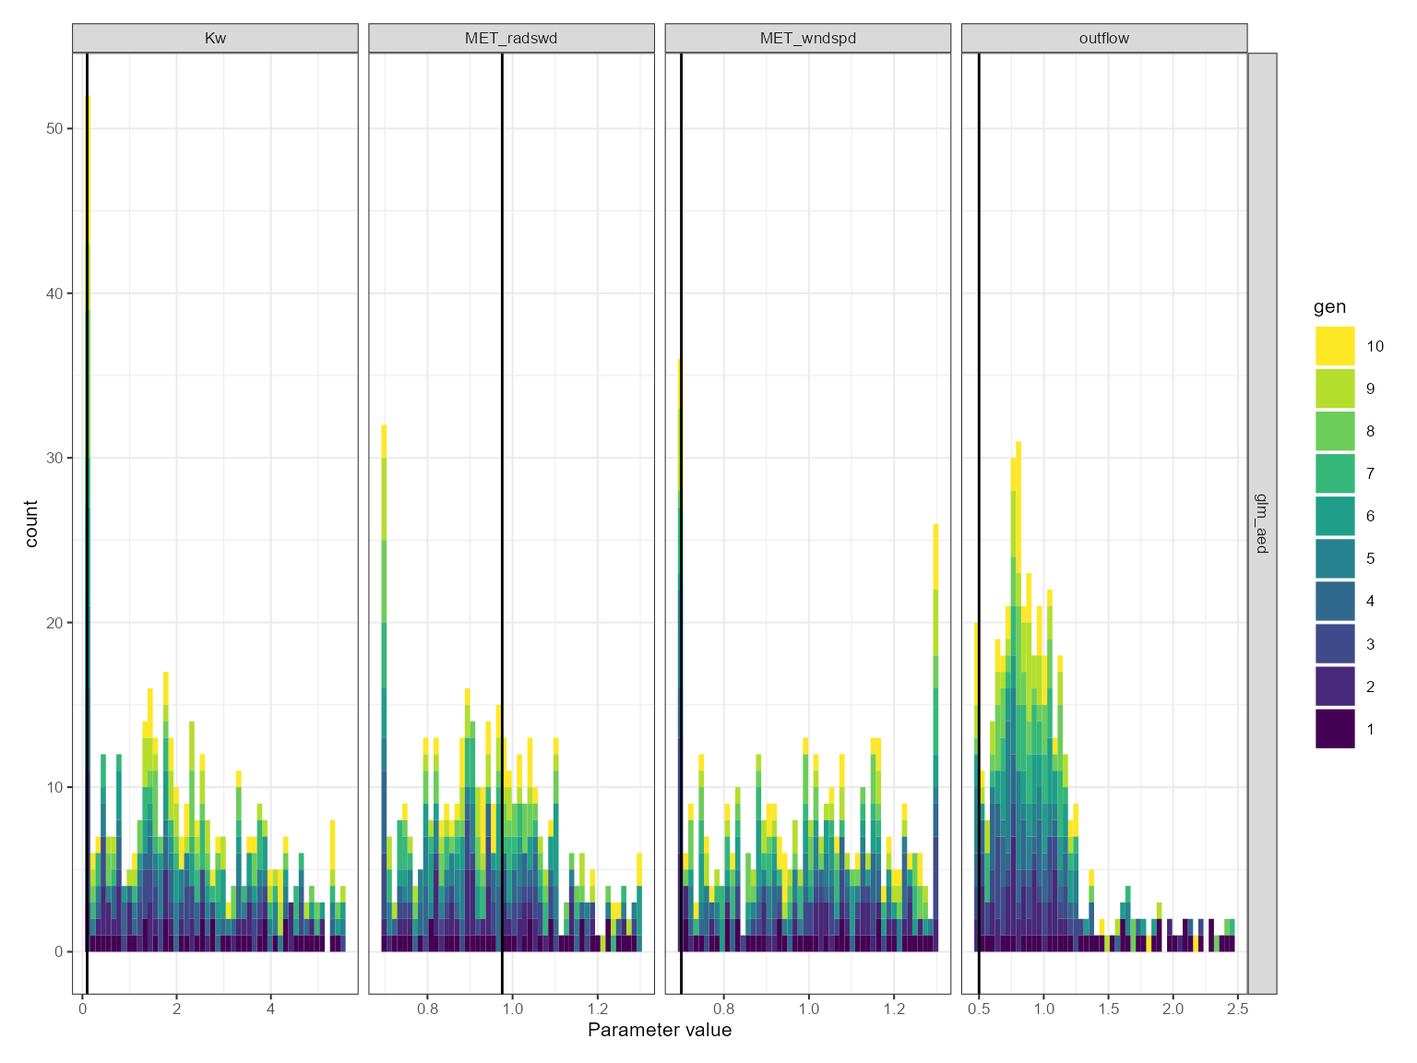
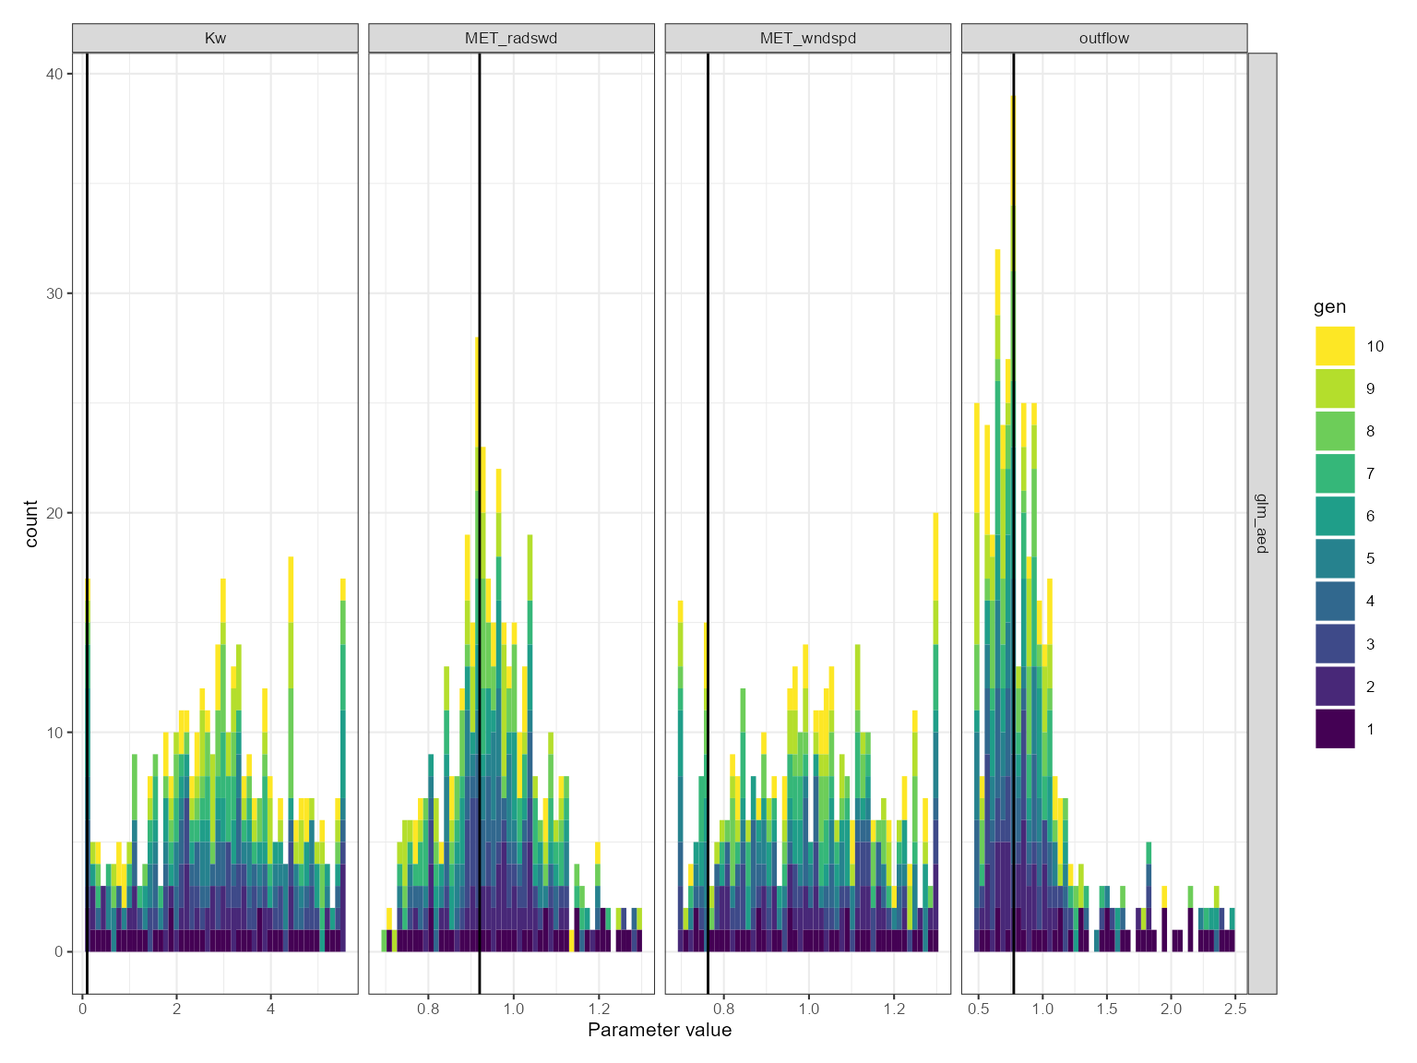
Deploying to gh-pages from @ limnotrack/aemetools@f2f2db6f0a85996d10b5b84f15a42213fd7329f2 🚀

Changed region(s): [[0.0625, 0.0625, 0.875, 0.9375]]

diff --git a/articles/calibrate-aeme.html b/articles/calibrate-aeme.html
@@ -42,7 +42,6 @@
   <a href="#" class="nav-link dropdown-toggle" data-bs-toggle="dropdown" role="button" aria-expanded="false" aria-haspopup="true" id="dropdown-articles">Articles</a>
   <div class="dropdown-menu" aria-labelledby="dropdown-articles">
     <a class="dropdown-item" href="../articles/calibrate-aeme.html">Calibrate AEME</a>
-    <a class="dropdown-item" href="../articles/calibration-strategies.html">Calibration strategies</a>
     <a class="dropdown-item" href="../articles/download-era5.html">Download ERA5 data</a>
   </div>
 </li>
@@ -122,9 +121,9 @@ make sure the current model setup is working.</p>
 <code class="sourceCode R"><span><span class="va">aeme_data</span> <span class="op">&lt;-</span> <span class="fu"><a href="https://rdrr.io/pkg/AEME/man/run_aeme.html" class="external-link">run_aeme</a></span><span class="op">(</span>aeme_data <span class="op">=</span> <span class="va">aeme_data</span>, model <span class="op">=</span> <span class="va">model</span>,</span>
 <span>                      verbose <span class="op">=</span> <span class="cn">FALSE</span>, mod_ctrls <span class="op">=</span> <span class="va">mod_ctrls</span>,</span>
 <span>                      path <span class="op">=</span> <span class="va">path</span><span class="op">)</span></span>
-<span><span class="co">#&gt; Running models... (Have you tried parallelizing?) [2023-11-05 22:06:33.251631]</span></span>
-<span><span class="co">#&gt; GLM-AED run successful! [2023-11-05 22:06:33.99918]</span></span>
-<span><span class="co">#&gt; Model run complete![2023-11-05 22:06:33.99998]</span></span>
+<span><span class="co">#&gt; Running models... (Have you tried parallelizing?) [2023-11-05 22:25:07.571444]</span></span>
+<span><span class="co">#&gt; GLM-AED run successful! [2023-11-05 22:25:08.307704]</span></span>
+<span><span class="co">#&gt; Model run complete![2023-11-05 22:25:08.308532]</span></span>
 <span><span class="co">#&gt; Retrieving and formatting temp for model glm_aed</span></span>
 <span><span class="co">#&gt; Retrieving and formatting salt for model glm_aed</span></span>
 <span><span class="fu"><a href="https://rdrr.io/r/graphics/plot.default.html" class="external-link">plot</a></span><span class="op">(</span><span class="va">aeme_data</span><span class="op">)</span></span></code></pre></div>
@@ -229,9 +228,9 @@ but the model output is generate within the lake folder.</p>
 <div class="sourceCode" id="cb7"><pre class="downlit sourceCode r">
 <code class="sourceCode R"><span><span class="fu"><a href="../reference/run_aeme_param.html">run_aeme_param</a></span><span class="op">(</span>aeme_data <span class="op">=</span> <span class="va">aeme_data</span>, param <span class="op">=</span> <span class="va">aeme_parameters</span>,</span>
 <span>                 model <span class="op">=</span> <span class="va">model</span>, path <span class="op">=</span> <span class="va">path</span>, mod_ctrls <span class="op">=</span> <span class="va">mod_ctrls</span><span class="op">)</span></span>
-<span><span class="co">#&gt; Running models... (Have you tried parallelizing?) [2023-11-05 22:06:46.504581]</span></span>
-<span><span class="co">#&gt; GLM-AED run successful! [2023-11-05 22:06:47.233841]</span></span>
-<span><span class="co">#&gt; Model run complete![2023-11-05 22:06:47.234644]</span></span></code></pre></div>
+<span><span class="co">#&gt; Running models... (Have you tried parallelizing?) [2023-11-05 22:25:12.072773]</span></span>
+<span><span class="co">#&gt; GLM-AED run successful! [2023-11-05 22:25:12.795248]</span></span>
+<span><span class="co">#&gt; Model run complete![2023-11-05 22:25:12.796106]</span></span></code></pre></div>
 </div>
 <div class="section level2">
 <h2 id="calibration-setup">Calibration setup<a class="anchor" aria-label="anchor" href="#calibration-setup"></a>
@@ -365,79 +364,79 @@ values.</p>
 <span>                   param <span class="op">=</span> <span class="va">aeme_parameters</span>, model <span class="op">=</span> <span class="va">model</span>,</span>
 <span>                   mod_ctrls <span class="op">=</span> <span class="va">mod_ctrls</span>, FUN <span class="op">=</span> <span class="va">fit</span>, ctrl <span class="op">=</span> <span class="va">ctrl</span>,</span>
 <span>                   vars_sim <span class="op">=</span> <span class="va">vars_sim</span>, weights <span class="op">=</span> <span class="va">weights</span><span class="op">)</span></span>
-<span><span class="co">#&gt; Extracting indices for modelled variables [2023-11-05 22:06:47.561731]</span></span>
-<span><span class="co">#&gt; Complete! [2023-11-05 22:06:48.421331]</span></span>
+<span><span class="co">#&gt; Extracting indices for modelled variables [2023-11-05 22:25:13.126218]</span></span>
+<span><span class="co">#&gt; Complete! [2023-11-05 22:25:13.983591]</span></span>
 <span><span class="co">#&gt; Calibrating in parallel using 1 cores...</span></span>
-<span><span class="co">#&gt; Starting generation 1/10, 40 members. [2023-11-05 22:06:48.678277]</span></span>
+<span><span class="co">#&gt; Starting generation 1/10, 40 members. [2023-11-05 22:25:14.234939]</span></span>
 <span><span class="co">#&gt;        light.Kw MET_wndspd MET_radswd outflow</span></span>
-<span><span class="co">#&gt; mean      2.804     0.9994     0.9990  1.4980</span></span>
-<span><span class="co">#&gt; median    2.764     0.9973     1.0000  1.4860</span></span>
-<span><span class="co">#&gt; sd        1.571     0.1752     0.1762  0.5837</span></span>
-<span><span class="co">#&gt; Best fit: 2.645 (sd: 320.313)</span></span>
-<span><span class="co">#&gt;             Parameters: [0.809, 1.232, 0.734, 0.837]</span></span>
+<span><span class="co">#&gt; mean      2.810     0.9993     1.0000  1.5000</span></span>
+<span><span class="co">#&gt; median    2.827     0.9965     0.9951  1.5020</span></span>
+<span><span class="co">#&gt; sd        1.575     0.1762     0.1743  0.5843</span></span>
+<span><span class="co">#&gt; Best fit: 2.827 (sd: 327.055)</span></span>
+<span><span class="co">#&gt;             Parameters: [0.732, 1.003, 0.804, 0.646]</span></span>
 <span><span class="co">#&gt; Survival rate: 1</span></span>
-<span><span class="co">#&gt; Starting generation 2/10, 40 members. [2023-11-05 22:07:22.95158]</span></span>
+<span><span class="co">#&gt; Starting generation 2/10, 40 members. [2023-11-05 22:25:48.50191]</span></span>
 <span><span class="co">#&gt;        light.Kw MET_wndspd MET_radswd outflow</span></span>
-<span><span class="co">#&gt; mean      2.007     0.9966     0.9305  0.8863</span></span>
-<span><span class="co">#&gt; median    1.725     1.0310     0.9039  0.8369</span></span>
-<span><span class="co">#&gt; sd        1.476     0.1976     0.1285  0.3201</span></span>
-<span><span class="co">#&gt; Best fit: 2.3294 (sd: 149.34)</span></span>
+<span><span class="co">#&gt; mean      2.686     1.0180    0.96620  0.8387</span></span>
+<span><span class="co">#&gt; median    2.765     1.0030    0.97120  0.8120</span></span>
+<span><span class="co">#&gt; sd        1.602     0.1638    0.09332  0.2673</span></span>
+<span><span class="co">#&gt; Best fit: 2.3565 (sd: 149.27)</span></span>
 <span><span class="co">#&gt; Survival rate: 1</span></span>
-<span><span class="co">#&gt; Starting generation 3/10, 40 members. [2023-11-05 22:08:00.114019]</span></span>
+<span><span class="co">#&gt; Starting generation 3/10, 40 members. [2023-11-05 22:26:25.870463]</span></span>
 <span><span class="co">#&gt;        light.Kw MET_wndspd MET_radswd outflow</span></span>
-<span><span class="co">#&gt; mean      1.765     0.9921     0.9428  0.8815</span></span>
-<span><span class="co">#&gt; median    1.513     1.0100     0.9456  0.8379</span></span>
-<span><span class="co">#&gt; sd        1.420     0.1921     0.1461  0.3201</span></span>
-<span><span class="co">#&gt; Best fit: 2.3294 (sd: 106.97)</span></span>
+<span><span class="co">#&gt; mean      3.148     0.9960     0.9579  0.9035</span></span>
+<span><span class="co">#&gt; median    3.100     1.0130     0.9426  0.8483</span></span>
+<span><span class="co">#&gt; sd        1.269     0.1648     0.1162  0.3788</span></span>
+<span><span class="co">#&gt; Best fit: 2.3565 (sd: 185.23)</span></span>
 <span><span class="co">#&gt; Survival rate: 1</span></span>
-<span><span class="co">#&gt; Starting generation 4/10, 40 members. [2023-11-05 22:08:37.154059]</span></span>
+<span><span class="co">#&gt; Starting generation 4/10, 40 members. [2023-11-05 22:27:03.303038]</span></span>
 <span><span class="co">#&gt;        light.Kw MET_wndspd MET_radswd outflow</span></span>
-<span><span class="co">#&gt; mean      2.039     0.9959     0.9261  0.9215</span></span>
-<span><span class="co">#&gt; median    1.741     1.0270     0.9541  0.8424</span></span>
-<span><span class="co">#&gt; sd        1.458     0.1846     0.1494  0.3519</span></span>
-<span><span class="co">#&gt; Best fit: 2.3288 (sd: 196.52)</span></span>
+<span><span class="co">#&gt; mean      2.791     0.9622     0.9531  0.8575</span></span>
+<span><span class="co">#&gt; median    2.852     0.9886     0.9448  0.7678</span></span>
+<span><span class="co">#&gt; sd        1.451     0.1549     0.1156  0.3678</span></span>
+<span><span class="co">#&gt; Best fit: 2.3318 (sd: 172.72)</span></span>
 <span><span class="co">#&gt; Survival rate: 1</span></span>
-<span><span class="co">#&gt; Starting generation 5/10, 40 members. [2023-11-05 22:09:14.018741]</span></span>
+<span><span class="co">#&gt; Starting generation 5/10, 40 members. [2023-11-05 22:27:40.910424]</span></span>
 <span><span class="co">#&gt;        light.Kw MET_wndspd MET_radswd outflow</span></span>
-<span><span class="co">#&gt; mean      2.197     0.9480     0.9195  0.8690</span></span>
-<span><span class="co">#&gt; median    2.017     0.9533     0.8682  0.7988</span></span>
-<span><span class="co">#&gt; sd        1.585     0.1796     0.1716  0.2600</span></span>
-<span><span class="co">#&gt; Best fit: 2.3288 (sd: 129.1)</span></span>
+<span><span class="co">#&gt; mean      2.644     1.0180    0.93690  0.8542</span></span>
+<span><span class="co">#&gt; median    2.592     1.0500    0.93970  0.7841</span></span>
+<span><span class="co">#&gt; sd        1.550     0.1954    0.09897  0.3373</span></span>
+<span><span class="co">#&gt; Best fit: 2.3318 (sd: 177.9)</span></span>
 <span><span class="co">#&gt; Survival rate: 1</span></span>
-<span><span class="co">#&gt; Starting generation 6/10, 40 members. [2023-11-05 22:09:51.170424]</span></span>
+<span><span class="co">#&gt; Starting generation 6/10, 40 members. [2023-11-05 22:28:18.537953]</span></span>
 <span><span class="co">#&gt;        light.Kw MET_wndspd MET_radswd outflow</span></span>
-<span><span class="co">#&gt; mean      2.274     1.0060     0.9501  0.9840</span></span>
-<span><span class="co">#&gt; median    1.990     1.0390     0.9676  0.9862</span></span>
-<span><span class="co">#&gt; sd        1.606     0.1763     0.1606  0.3063</span></span>
-<span><span class="co">#&gt; Best fit: 2.3288 (sd: 172.76)</span></span>
+<span><span class="co">#&gt; mean      3.200     0.9595    0.95740  0.9409</span></span>
+<span><span class="co">#&gt; median    3.205     0.9568    0.95540  0.7770</span></span>
+<span><span class="co">#&gt; sd        1.737     0.1675    0.08789  0.4639</span></span>
+<span><span class="co">#&gt; Best fit: 2.3318 (sd: 199.02)</span></span>
 <span><span class="co">#&gt; Survival rate: 1</span></span>
-<span><span class="co">#&gt; Starting generation 7/10, 40 members. [2023-11-05 22:10:27.684832]</span></span>
+<span><span class="co">#&gt; Starting generation 7/10, 40 members. [2023-11-05 22:28:55.78387]</span></span>
 <span><span class="co">#&gt;        light.Kw MET_wndspd MET_radswd outflow</span></span>
-<span><span class="co">#&gt; mean      2.293     0.9574     0.9072  0.9540</span></span>
-<span><span class="co">#&gt; median    2.426     0.9135     0.9029  0.8939</span></span>
-<span><span class="co">#&gt; sd        1.514     0.1900     0.1542  0.3225</span></span>
-<span><span class="co">#&gt; Best fit: 2.3288 (sd: 139.64)</span></span>
+<span><span class="co">#&gt; mean      2.769     0.9818     0.9503  0.9287</span></span>
+<span><span class="co">#&gt; median    2.967     0.9813     0.9311  0.8384</span></span>
+<span><span class="co">#&gt; sd        1.408     0.1706     0.1334  0.3356</span></span>
+<span><span class="co">#&gt; Best fit: 2.3318 (sd: 164.71)</span></span>
 <span><span class="co">#&gt; Survival rate: 1</span></span>
-<span><span class="co">#&gt; Starting generation 8/10, 40 members. [2023-11-05 22:11:04.138596]</span></span>
+<span><span class="co">#&gt; Starting generation 8/10, 40 members. [2023-11-05 22:29:32.934874]</span></span>
 <span><span class="co">#&gt;        light.Kw MET_wndspd MET_radswd outflow</span></span>
-<span><span class="co">#&gt; mean      1.910     1.0010     0.9386  0.9814</span></span>
-<span><span class="co">#&gt; median    1.626     0.9998     0.9676  0.8629</span></span>
-<span><span class="co">#&gt; sd        1.516     0.1869     0.1470  0.4112</span></span>
-<span><span class="co">#&gt; Best fit: 2.3288 (sd: 209.27)</span></span>
+<span><span class="co">#&gt; mean      2.945     1.0030     0.9570  0.8473</span></span>
+<span><span class="co">#&gt; median    2.908     1.0290     0.9373  0.7854</span></span>
+<span><span class="co">#&gt; sd        1.436     0.1576     0.1094  0.3119</span></span>
+<span><span class="co">#&gt; Best fit: 2.3318 (sd: 139.49)</span></span>
 <span><span class="co">#&gt; Survival rate: 1</span></span>
-<span><span class="co">#&gt; Starting generation 9/10, 40 members. [2023-11-05 22:11:40.126006]</span></span>
+<span><span class="co">#&gt; Starting generation 9/10, 40 members. [2023-11-05 22:30:10.392375]</span></span>
 <span><span class="co">#&gt;        light.Kw MET_wndspd MET_radswd outflow</span></span>
-<span><span class="co">#&gt; mean      2.232     0.9910     0.9230  0.8936</span></span>
-<span><span class="co">#&gt; median    2.021     0.9803     0.9195  0.8701</span></span>
-<span><span class="co">#&gt; sd        1.437     0.1946     0.1659  0.2906</span></span>
-<span><span class="co">#&gt; Best fit: 2.3288 (sd: 164.64)</span></span>
+<span><span class="co">#&gt; mean      3.189     1.0240     0.9369  0.8449</span></span>
+<span><span class="co">#&gt; median    3.224     1.0410     0.9285  0.7739</span></span>
+<span><span class="co">#&gt; sd        1.308     0.1773     0.1316  0.3615</span></span>
+<span><span class="co">#&gt; Best fit: 2.3318 (sd: 149.25)</span></span>
 <span><span class="co">#&gt; Survival rate: 1</span></span>
-<span><span class="co">#&gt; Starting generation 10/10, 40 members. [2023-11-05 22:12:16.889882]</span></span>
+<span><span class="co">#&gt; Starting generation 10/10, 40 members. [2023-11-05 22:30:47.633498]</span></span>
 <span><span class="co">#&gt;        light.Kw MET_wndspd MET_radswd outflow</span></span>
-<span><span class="co">#&gt; mean      2.057      1.011     0.9690  0.9168</span></span>
-<span><span class="co">#&gt; median    1.927      1.019     0.9586  0.8140</span></span>
-<span><span class="co">#&gt; sd        1.603      0.203     0.1425  0.3421</span></span>
-<span><span class="co">#&gt; Best fit: 2.3259 (sd: 178.17)</span></span>
+<span><span class="co">#&gt; mean      2.974     1.0340    0.94340  0.8209</span></span>
+<span><span class="co">#&gt; median    2.891     1.0270    0.93380  0.7743</span></span>
+<span><span class="co">#&gt; sd        1.446     0.1786    0.09995  0.2840</span></span>
+<span><span class="co">#&gt; Best fit: 2.3318 (sd: 106.89)</span></span>
 <span><span class="co">#&gt; Survival rate: 1</span></span></code></pre></div>
 </div>
 <div class="section level2">

diff --git a/articles/download-era5.html b/articles/download-era5.html
@@ -42,7 +42,6 @@
   <a href="#" class="nav-link dropdown-toggle" data-bs-toggle="dropdown" role="button" aria-expanded="false" aria-haspopup="true" id="dropdown-articles">Articles</a>
   <div class="dropdown-menu" aria-labelledby="dropdown-articles">
     <a class="dropdown-item" href="../articles/calibrate-aeme.html">Calibrate AEME</a>
-    <a class="dropdown-item" href="../articles/calibration-strategies.html">Calibration strategies</a>
     <a class="dropdown-item" href="../articles/download-era5.html">Download ERA5 data</a>
   </div>
 </li>
@@ -96,8 +95,8 @@ your computer to speed up the download.</p>
 <span><span class="va">met</span> <span class="op">&lt;-</span> <span class="fu"><a href="../reference/get_era5_point.html">get_era5_point</a></span><span class="op">(</span>lat <span class="op">=</span> <span class="va">lat</span>, lon <span class="op">=</span> <span class="va">lon</span>, years <span class="op">=</span> <span class="fl">2000</span><span class="op">:</span><span class="fl">2001</span>,</span>
 <span>                      variables <span class="op">=</span> <span class="va">variables</span>, format <span class="op">=</span> <span class="st">"aeme"</span>, parallel <span class="op">=</span> <span class="cn">TRUE</span><span class="op">)</span></span>
 <span><span class="co">#&gt; Auto-refreshing stale OAuth token.</span></span>
-<span><span class="co">#&gt; Downloading ERA5 variables in parallel... [2023-11-05 22:18:33.665347]</span></span>
-<span><span class="co">#&gt; Finished downloading ERA5 variables! [2023-11-05 22:18:45.048336]</span></span>
+<span><span class="co">#&gt; Downloading ERA5 variables in parallel... [2023-11-05 22:31:36.898275]</span></span>
+<span><span class="co">#&gt; Finished downloading ERA5 variables! [2023-11-05 22:31:50.684024]</span></span>
 <span><span class="fu"><a href="https://rdrr.io/r/base/summary.html" class="external-link">summary</a></span><span class="op">(</span><span class="va">met</span><span class="op">)</span></span>
 <span><span class="co">#&gt;       Date              MET_tmpair       MET_pprain     </span></span>
 <span><span class="co">#&gt;  Min.   :2000-01-01   Min.   : 3.407   Min.   : 0.0000  </span></span>

diff --git a/articles/index.html b/articles/index.html
@@ -25,7 +25,6 @@
   <a href="#" class="nav-link dropdown-toggle" data-bs-toggle="dropdown" role="button" aria-expanded="false" aria-haspopup="true" id="dropdown-articles">Articles</a>
   <div class="dropdown-menu" aria-labelledby="dropdown-articles">
     <a class="dropdown-item" href="../articles/calibrate-aeme.html">Calibrate AEME</a>
-    <a class="dropdown-item" href="../articles/calibration-strategies.html">Calibration strategies</a>
     <a class="dropdown-item" href="../articles/download-era5.html">Download ERA5 data</a>
   </div>
 </li>
@@ -47,8 +46,6 @@
       <p class="section-desc"></p>
 
       <dl><dt><a href="calibrate-aeme.html">Calibrate AEME</a></dt>
-        <dd>
-        </dd><dt><a href="calibration-strategies.html">Calibration strategies</a></dt>
         <dd>
         </dd><dt><a href="download-era5.html">Download ERA5 data</a></dt>
         <dd>

diff --git a/404.html b/404.html
@@ -40,7 +40,6 @@
   <a href="https://special-enigma-8p9lgre.pages.github.io/#" class="nav-link dropdown-toggle" data-bs-toggle="dropdown" role="button" aria-expanded="false" aria-haspopup="true" id="dropdown-articles">Articles</a>
   <div class="dropdown-menu" aria-labelledby="dropdown-articles">
     <a class="dropdown-item" href="https://special-enigma-8p9lgre.pages.github.io/articles/calibrate-aeme.html">Calibrate AEME</a>
-    <a class="dropdown-item" href="https://special-enigma-8p9lgre.pages.github.io/articles/calibration-strategies.html">Calibration strategies</a>
     <a class="dropdown-item" href="https://special-enigma-8p9lgre.pages.github.io/articles/download-era5.html">Download ERA5 data</a>
   </div>
 </li>

diff --git a/reference/calib_aeme.html b/reference/calib_aeme.html
@@ -29,7 +29,6 @@ to run quicker."><!-- mathjax --><script src="https://cdnjs.cloudflare.com/ajax/
   <a href="#" class="nav-link dropdown-toggle" data-bs-toggle="dropdown" role="button" aria-expanded="false" aria-haspopup="true" id="dropdown-articles">Articles</a>
   <div class="dropdown-menu" aria-labelledby="dropdown-articles">
     <a class="dropdown-item" href="../articles/calibrate-aeme.html">Calibrate AEME</a>
-    <a class="dropdown-item" href="../articles/calibration-strategies.html">Calibration strategies</a>
     <a class="dropdown-item" href="../articles/download-era5.html">Download ERA5 data</a>
   </div>
 </li>

diff --git a/reference/download_era5_ncdf.html b/reference/download_era5_ncdf.html
@@ -35,7 +35,6 @@ profile."><!-- mathjax --><script src="https://cdnjs.cloudflare.com/ajax/libs/ma
   <a href="#" class="nav-link dropdown-toggle" data-bs-toggle="dropdown" role="button" aria-expanded="false" aria-haspopup="true" id="dropdown-articles">Articles</a>
   <div class="dropdown-menu" aria-labelledby="dropdown-articles">
     <a class="dropdown-item" href="../articles/calibrate-aeme.html">Calibrate AEME</a>
-    <a class="dropdown-item" href="../articles/calibration-strategies.html">Calibration strategies</a>
     <a class="dropdown-item" href="../articles/download-era5.html">Download ERA5 data</a>
   </div>
 </li>

diff --git a/reference/aeme_parameters.html b/reference/aeme_parameters.html
@@ -25,7 +25,6 @@
   <a href="#" class="nav-link dropdown-toggle" data-bs-toggle="dropdown" role="button" aria-expanded="false" aria-haspopup="true" id="dropdown-articles">Articles</a>
   <div class="dropdown-menu" aria-labelledby="dropdown-articles">
     <a class="dropdown-item" href="../articles/calibrate-aeme.html">Calibrate AEME</a>
-    <a class="dropdown-item" href="../articles/calibration-strategies.html">Calibration strategies</a>
     <a class="dropdown-item" href="../articles/download-era5.html">Download ERA5 data</a>
   </div>
 </li>

diff --git a/reference/calib_GR.html b/reference/calib_GR.html
@@ -25,7 +25,6 @@
   <a href="#" class="nav-link dropdown-toggle" data-bs-toggle="dropdown" role="button" aria-expanded="false" aria-haspopup="true" id="dropdown-articles">Articles</a>
   <div class="dropdown-menu" aria-labelledby="dropdown-articles">
     <a class="dropdown-item" href="../articles/calibrate-aeme.html">Calibrate AEME</a>
-    <a class="dropdown-item" href="../articles/calibration-strategies.html">Calibration strategies</a>
     <a class="dropdown-item" href="../articles/download-era5.html">Download ERA5 data</a>
   </div>
 </li>

diff --git a/reference/convert_era5_ncdf.html b/reference/convert_era5_ncdf.html
@@ -25,7 +25,6 @@
   <a href="#" class="nav-link dropdown-toggle" data-bs-toggle="dropdown" role="button" aria-expanded="false" aria-haspopup="true" id="dropdown-articles">Articles</a>
   <div class="dropdown-menu" aria-labelledby="dropdown-articles">
     <a class="dropdown-item" href="../articles/calibrate-aeme.html">Calibrate AEME</a>
-    <a class="dropdown-item" href="../articles/calibration-strategies.html">Calibration strategies</a>
     <a class="dropdown-item" href="../articles/download-era5.html">Download ERA5 data</a>
   </div>
 </li>

diff --git a/reference/get_era5_point.html b/reference/get_era5_point.html
@@ -25,7 +25,6 @@
   <a href="#" class="nav-link dropdown-toggle" data-bs-toggle="dropdown" role="button" aria-expanded="false" aria-haspopup="true" id="dropdown-articles">Articles</a>
   <div class="dropdown-menu" aria-labelledby="dropdown-articles">
     <a class="dropdown-item" href="../articles/calibrate-aeme.html">Calibrate AEME</a>
-    <a class="dropdown-item" href="../articles/calibration-strategies.html">Calibration strategies</a>
     <a class="dropdown-item" href="../articles/download-era5.html">Download ERA5 data</a>
   </div>
 </li>

diff --git a/reference/get_param.html b/reference/get_param.html
@@ -25,7 +25,6 @@
   <a href="#" class="nav-link dropdown-toggle" data-bs-toggle="dropdown" role="button" aria-expanded="false" aria-haspopup="true" id="dropdown-articles">Articles</a>
   <div class="dropdown-menu" aria-labelledby="dropdown-articles">
     <a class="dropdown-item" href="../articles/calibrate-aeme.html">Calibrate AEME</a>
-    <a class="dropdown-item" href="../articles/calibration-strategies.html">Calibration strategies</a>
     <a class="dropdown-item" href="../articles/download-era5.html">Download ERA5 data</a>
   </div>
 </li>

diff --git a/reference/get_upstream_rec.html b/reference/get_upstream_rec.html
@@ -25,7 +25,6 @@
   <a href="#" class="nav-link dropdown-toggle" data-bs-toggle="dropdown" role="button" aria-expanded="false" aria-haspopup="true" id="dropdown-articles">Articles</a>
   <div class="dropdown-menu" aria-labelledby="dropdown-articles">
     <a class="dropdown-item" href="../articles/calibrate-aeme.html">Calibrate AEME</a>
-    <a class="dropdown-item" href="../articles/calibration-strategies.html">Calibration strategies</a>
     <a class="dropdown-item" href="../articles/download-era5.html">Download ERA5 data</a>
   </div>
 </li>
